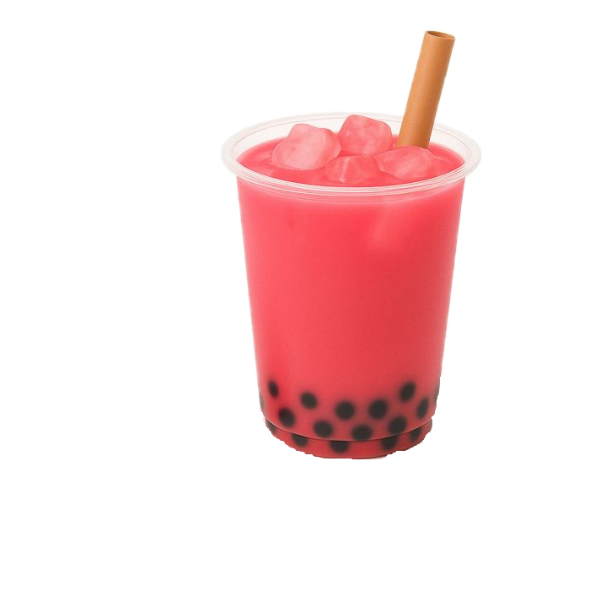
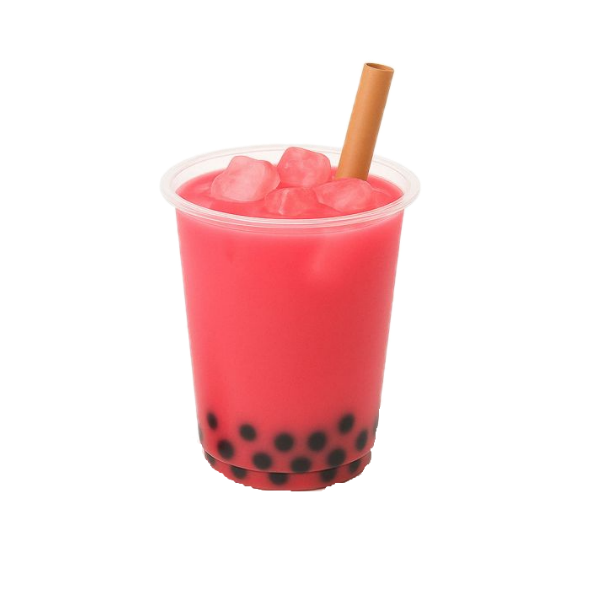
css done

Changed region(s): [[0.2746, 0.0305, 0.8237, 0.8542]]

diff --git a/style.css b/style.css
@@ -84,11 +84,13 @@ body {
     justify-content: center;
     align-items: center;
     gap: 50px;
+    padding-top: 50px;
 
 }
 .card {
     width: 50%;
-    border: solid black 5px;
+    border: solid black 3px;
+    border-radius: 10px;
     display: grid;
     grid-template-columns: repeat(2 1fr);
     text-align: center;
@@ -147,7 +149,9 @@ body {
 .product-card > .card {
     width: 75%;
 }
-
+footer-left > h1 {
+    font-family: var(--head-font);
+}
 
 #smlogofacebook, #smlogoinstagram, #smlogotwitter, #smlogoyoutube {
     width: 16px;
@@ -177,4 +181,17 @@ body {
     grid-row: 2 / 3;
     width: 16px;
     height: 16px;
+}
+.footer-left h1 {
+    font-family: var(--head-font);
+}
+.footer-center a {
+    font-size: 1.5em;
+}
+.card-nav ul li a {
+    font-family: var(--body-font);
+    font-size: 1.25em;
+}
+a {
+    font-family: var(--body-font);
 }
